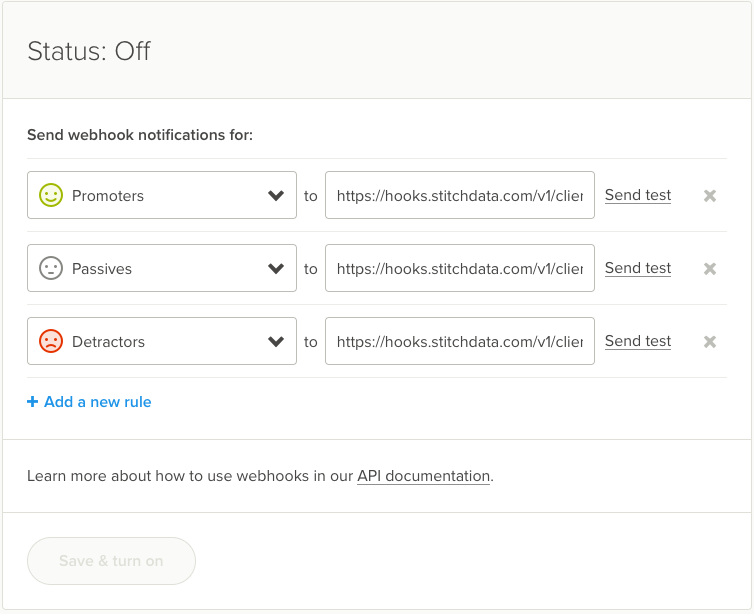
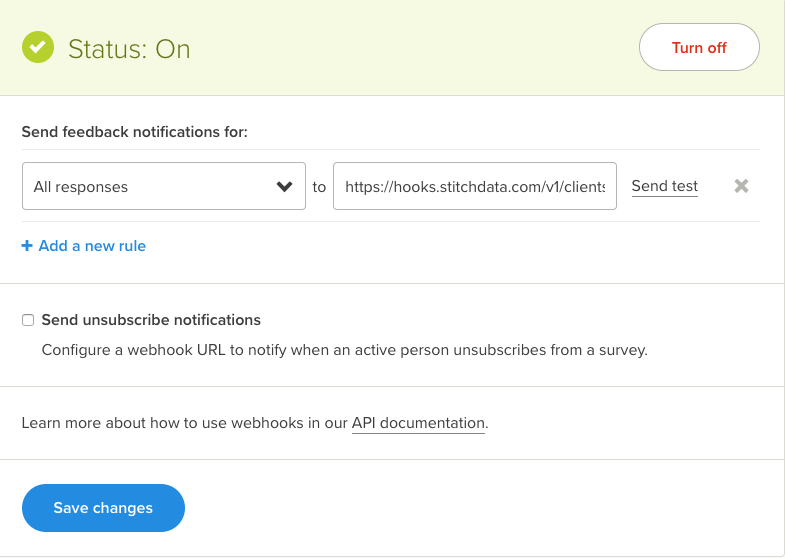
Update setup instructions

diff --git a/_webhook-integrations/delighted.md b/_webhook-integrations/delighted.md
@@ -38,20 +38,6 @@ column-selection: false
 extraction-logs: false
 loading-reports: false
 
-# -------------------------- #
-#     Integration Tables     #
-# -------------------------- #
-
-tables:
-  - name: "data"
-    doc-link: https://delighted.com/docs/api/webhooks
-    description: ""
-    notes: 
-    replication-method: "Append-Only (Incremental)"
-    nested-structures: true
-    ## attribute-notes: if populated, this will replace the default "While we try to include everything here..." copy.
-    attributes:
-      - name: Shipment ID (<code>id</code>)
 ---
 {% assign integration = page %}
 {% include misc/data-files.html %}
@@ -59,17 +45,15 @@ tables:
 {% contentfor setup %}
 {% include integrations/webhooks/webhook-setup.html %}
 
+{% include layout/image.html type="right" file="/integrations/delighted-webhook-setup.png" max-width="450" %}
+
 1. Sign into your Delighted account.
-2. Click **Settings**, located in the top right corner.
-3. In the Settings menu, click **Integrations**.
-4. Locate the **Webhooks** option, then click the **Set Up** link.
-5. Using the drop-down menu, select the event you want to track. You can also track everything by selecting the **All Responses** option.
-6. In the next field, paste your Stitch-genereated webhook URL.
-7. If you want to track more than one event, click the **Add a New Rule** link and repeat steps 5 and 6 until all the events you want to track have been added:
-
-   ![Setting up webhooks in Delighted.]({{ site.baseurl }}/images/integrations/delighted-webhook-setup.png)
-
-8. When finished, click **Save & Turn On.**
+2. Click **Integrations**.
+3. Click the **Webhooks** option.
+4. Select the event(s) you want to track using the drop-down menu. You can also track everything by selecting the **All Responses** option.
+5. In the next field, paste your Stitch-genereated webhook URL.
+6. If you want to track more than one event, click the **Add a New Rule** link and repeat steps 5 and 6 until all the events you want to track have been added.
+7. When finished, click **Save changes.**
 {% endcontentfor %}
 
 
